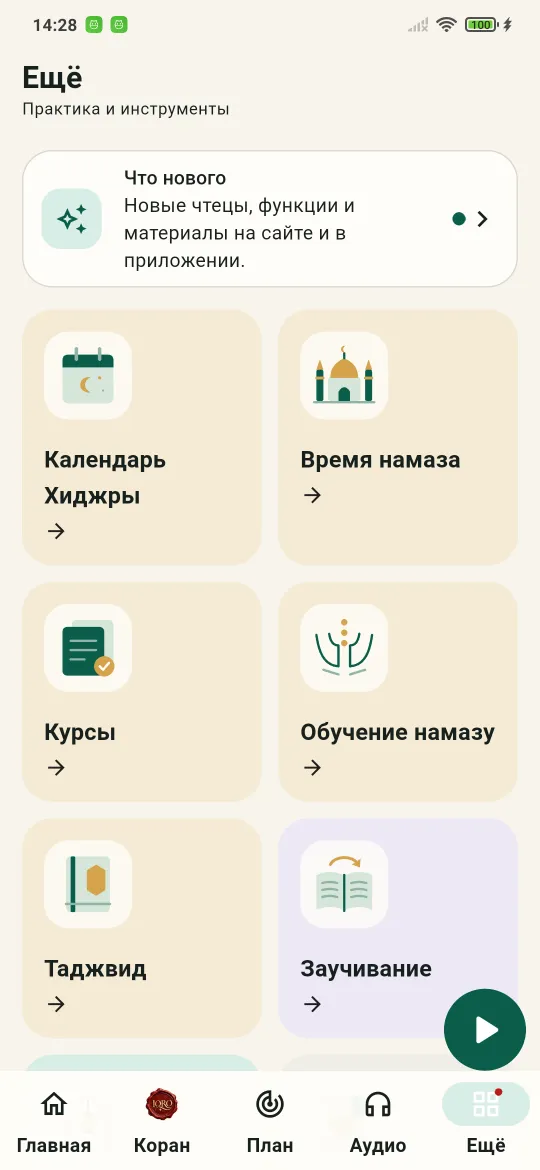
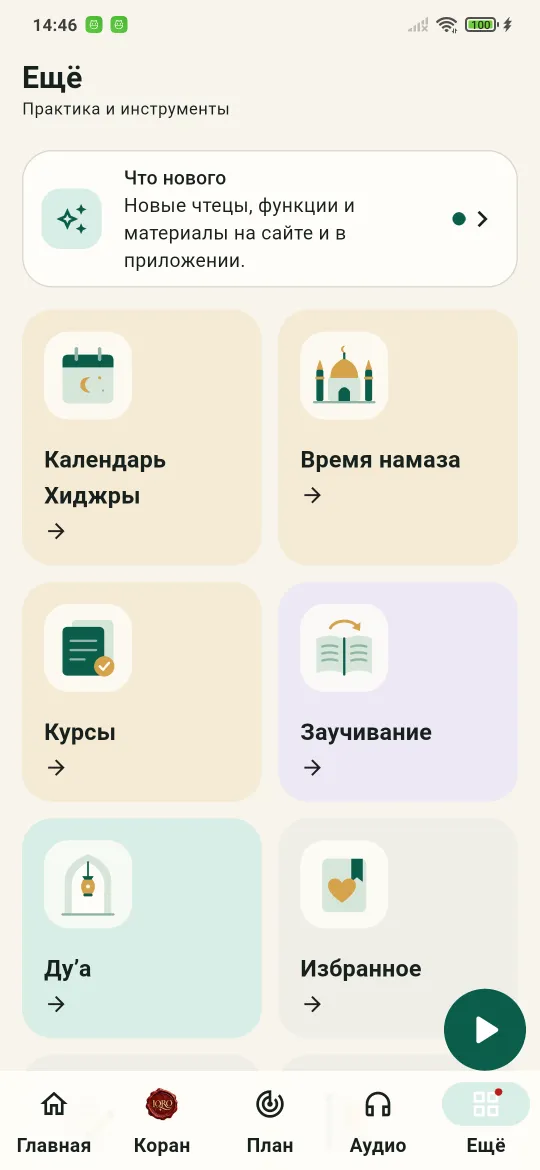
feat(app): намаз и таджвид открываются из «Курсов», а не отдельными плитками «Ещё»
Просьба владельца: оба курса уже есть в каталоге «Курсы». Маршруты /salah и
/tajweed, вход с экрана «Намаз» и диплинки не менялись.

Changed region(s): [[0.5037, 0.4923, 0.9778, 0.8615], [0.0296, 0.6769, 0.5037, 0.9231], [0.0889, 0.0, 0.1481, 0.0308]]

diff --git a/clients/iqro_mobile/test/features/tajweed_course_screen_test.dart b/clients/iqro_mobile/test/features/tajweed_course_screen_test.dart
@@ -11,7 +11,6 @@ import 'package:iqro_mobile/core/audio/audio_controller.dart';
 import 'package:iqro_mobile/core/theme/iqro_theme.dart';
 import 'package:iqro_mobile/features/audio/audio_models.dart';
 import 'package:iqro_mobile/features/audio/audio_repository.dart';
-import 'package:iqro_mobile/features/more/more_screen.dart';
 import 'package:iqro_mobile/features/tajweed_course/tajweed_course_home_screen.dart';
 import 'package:iqro_mobile/features/tajweed_course/tajweed_course_models.dart';
 import 'package:iqro_mobile/features/tajweed_course/tajweed_course_progress.dart';
@@ -23,50 +22,6 @@ import 'package:just_audio/just_audio.dart';
 import 'tajweed_course_test_data.dart';
 
 void main() {
-  testWidgets('the «More» tile after «Learn to pray» opens the course', (
-    tester,
-  ) async {
-    final semantics = tester.ensureSemantics();
-    final router = GoRouter(
-      routes: <RouteBase>[
-        GoRoute(
-          path: '/',
-          builder: (_, _) => const Scaffold(
-            body: SingleChildScrollView(child: MoreToolsGrid()),
-          ),
-        ),
-        GoRoute(
-          path: '/tajweed',
-          builder: (_, _) => const Scaffold(body: Text('tajweed-opened')),
-        ),
-      ],
-    );
-    addTearDown(router.dispose);
-    await tester.pumpWidget(
-      MaterialApp.router(
-        routerConfig: router,
-        locale: const Locale('ru'),
-        supportedLocales: AppLocalizations.supportedLocales,
-        localizationsDelegates: AppLocalizations.localizationsDelegates,
-        theme: IqroTheme.light(),
-      ),
-    );
-    final tile = find.byKey(const ValueKey('more-tajweed'));
-    expect(
-      tester.getSemantics(tile),
-      isSemantics(hint: 'Правила чтения по шагам', hasTapAction: true),
-    );
-    final titles = tester
-        .widgetList<Text>(find.byType(Text))
-        .map((text) => text.data)
-        .toList();
-    expect(titles.indexOf('Таджвид'), titles.indexOf('Обучение намазу') + 1);
-    await tester.tap(tile);
-    await tester.pumpAndSettle();
-    expect(find.text('tajweed-opened'), findsOneWidget);
-    semantics.dispose();
-  });
-
   testWidgets('home shows progress and continues the right lesson', (
     tester,
   ) async {

diff --git a/clients/iqro_mobile/test/features/course_screens_test.dart b/clients/iqro_mobile/test/features/course_screens_test.dart
@@ -20,7 +20,7 @@ import 'package:sqflite_common_ffi/sqflite_ffi.dart';
 import 'course_test_data.dart';
 
 void main() {
-  testWidgets('the «More» tile opens the courses; prayer and tajweed stay', (
+  testWidgets('«More» opens the courses, which hold prayer and tajweed', (
     tester,
   ) async {
     final semantics = tester.ensureSemantics();
@@ -48,8 +48,9 @@ void main() {
         theme: IqroTheme.light(),
       ),
     );
-    expect(find.text('Обучение намазу'), findsOneWidget);
-    expect(find.text('Таджвид'), findsOneWidget);
+    // Both courses open from the catalog, not from tiles of their own.
+    expect(find.text('Обучение намазу'), findsNothing);
+    expect(find.text('Таджвид'), findsNothing);
     final tile = find.byKey(const ValueKey('more-courses'));
     expect(
       tester.getSemantics(tile),

diff --git a/clients/iqro_mobile/lib/features/more/more_screen.dart b/clients/iqro_mobile/lib/features/more/more_screen.dart
@@ -189,20 +189,6 @@ class MoreToolsGrid extends StatelessWidget {
         onTap: () => context.push('/courses'),
       ),
       _ToolCard(
-        art: 'remembrance',
-        title: context.l10n.salahTitle,
-        color: context.iqroColors.sand,
-        onTap: () => context.push('/salah'),
-      ),
-      _ToolCard(
-        key: const ValueKey('more-tajweed'),
-        art: 'quran',
-        title: context.l10n.tajweedCourseTitle,
-        hint: context.l10n.tajweedCourseHint,
-        color: context.iqroColors.sand,
-        onTap: () => context.push('/tajweed'),
-      ),
-      _ToolCard(
         art: 'memorization',
         title: context.l10n.memorization,
         color: context.iqroColors.lavender,
